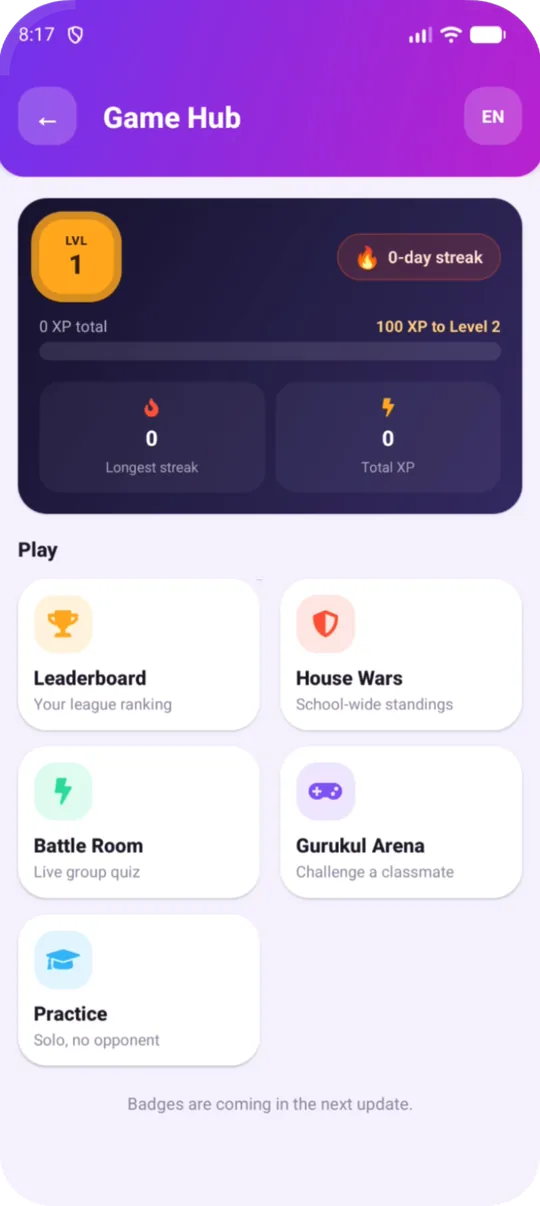
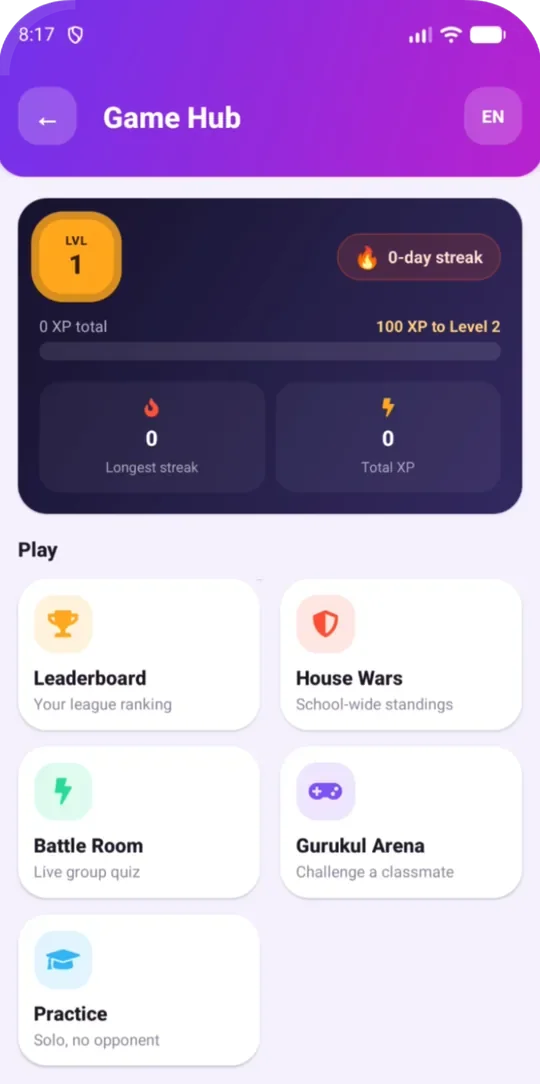
Website assets: H1 kicker, feature grid tiles, first-touch attribution, cropped screenshots
- site.css: .h1-kicker (Mukta on Hindi pages), .related > div tiles for the feature grid (link tiles
  get an arrow), .foot-title for the footer headings, .pillar-links, list support in .answer,
  .roadmap removed. 981-1199px: tighter nav spacing and the English Games link hidden, so seven
  links, the language switch and the demo button fit on one line at 1024px (Games stays in the
  footer, the mobile menu and at 1200px+; Hindi labels are narrower and keep it).
- site.js: first page of the visit, referrer host (not smartgurukul.org) and utm_source/medium/
  campaign kept in sessionStorage (try/catch everywhere) and sent only inside the existing
  sourcePage field of a demo or website request, capped at 200 characters. No analytics script.
- principal-home.webp cropped to 540x1036 (drops the Video Calls tile) and game-hub.webp to
  540x1084 (drops "Badges are coming in the next update"), WebP q85, Pillow.
- favicon.ico (16/32/48) from brand/favicon-48.png; IndexNow key file.

diff --git a/docs/assets/site.css b/docs/assets/site.css
@@ -66,13 +66,21 @@ p { margin: 0 0 1em; }
 .brand { display: flex; align-items: center; text-decoration: none; flex: none; }
 .brand img { height: 40px; width: auto; }
 .nav-links { display: flex; gap: 2px; margin: 0 0 0 auto; padding: 0; list-style: none; align-items: center; }
-.nav-links a { color: var(--sg-ink-600); text-decoration: none; font: 500 .95rem/1 var(--sg-font-display); padding: 10px 12px; border-radius: 10px; }
+.nav-links a { color: var(--sg-ink-600); text-decoration: none; font: 500 .95rem/1 var(--sg-font-display); padding: 10px 12px; border-radius: 10px; white-space: nowrap; }
 .nav-links a:hover, .nav-links a[aria-current="page"] { color: var(--sg-violet-600); background: var(--sg-violet-50); }
 .nav-cta { display: flex; gap: 10px; align-items: center; }
 .lang { color: var(--sg-ink-900); font: 600 .92rem/1 var(--sg-font-body); text-decoration: none; padding: 10px 12px; border: 1px solid var(--sg-line); border-radius: 10px; }
 .lang:hover { border-color: var(--sg-violet-600); color: var(--sg-violet-600); }
 .menu-btn { display: none; margin-left: auto; background: none; border: 1px solid var(--sg-line); color: var(--sg-ink-900); border-radius: 10px; width: 44px; height: 44px; cursor: pointer; }
 .menu-btn svg { margin: auto; }
+/* 981-1199px: seven links, the language switch and the demo button only fit with tighter spacing and
+   without the Games link (it stays in the footer, the mobile menu and wider screens). */
+@media (min-width: 981px) and (max-width: 1199px) {
+  .nav { gap: 14px; }
+  .nav-links a { padding: 10px 8px; font-size: .9rem; }
+  .nav-links .nav-wide { display: none; }
+  :lang(hi) .nav-links .nav-wide { display: list-item; } /* Hindi labels and lockup are narrower: room to spare */
+}
 @media (max-width: 980px) {
   .menu-btn { display: grid; }
   .nav-links, .nav-cta { display: none; }
@@ -90,6 +98,8 @@ p { margin: 0 0 1em; }
 .hero-grid { display: grid; grid-template-columns: 1.05fr .95fr; gap: 40px; align-items: center; }
 .hero h1 { color: #fff; }
 .hero h1 .accent { color: var(--sg-marigold-500); }
+.h1-kicker { display: block; font: 600 clamp(1rem, 1.6vw, 1.1rem)/1.35 var(--sg-font-display); letter-spacing: 0; color: var(--sg-marigold-500); margin-bottom: 14px; }
+:lang(hi) .h1-kicker { font-family: "Mukta", "Poppins", sans-serif; font-size: clamp(1.05rem, 1.7vw, 1.15rem); }
 .hero .tagline-hi { font: 700 1.35rem/1.3 "Mukta", sans-serif; color: rgba(255, 255, 255, .9); margin: -6px 0 16px; }
 .hero .lead { margin-bottom: 28px; }
 .hero-actions { display: flex; gap: 12px; flex-wrap: wrap; }
@@ -139,6 +149,9 @@ section { padding: clamp(64px, 9vw, 108px) 0; }
 .answer { background: #fff; border: 1px solid var(--sg-line); border-left: 5px solid var(--sg-violet-600); border-radius: var(--sg-radius-card); padding: 22px 24px; box-shadow: var(--shadow); max-width: 880px; margin-inline: auto; }
 .answer p { margin: 0; font-size: 1.1rem; color: var(--sg-ink-600); }
 .answer strong { color: var(--sg-ink-900); }
+.answer ul { margin: 10px 0; padding-left: 1.2em; color: var(--sg-ink-600); font-size: 1.1rem; }
+.answer li { margin-bottom: 4px; }
+.answer ul + p, .answer p + p { margin-top: 10px; }
 
 /* Pillars */
 .pillars { display: grid; grid-template-columns: repeat(3, 1fr); gap: 20px; }
@@ -151,6 +164,7 @@ section { padding: clamp(64px, 9vw, 108px) 0; }
 .pillar li:first-child { border-top: 0; }
 .pillar li::before { content: ""; position: absolute; left: 4px; top: 16px; width: 10px; height: 10px; border-radius: 3px; background: var(--c); transform: rotate(45deg); }
 .pillar a { font: 600 1rem var(--sg-font-display); text-decoration: none; }
+.pillar-links { display: flex; flex-wrap: wrap; gap: 6px 18px; }
 .pillar.ai { --c: var(--sg-violet-600); --c-soft: var(--sg-violet-100); --c-text: var(--sg-violet-700); }
 .pillar.school { --c: var(--sg-violet-900); --c-soft: var(--sg-violet-50); --c-text: var(--sg-violet-900); }
 .pillar.games { --c: var(--sg-marigold-500); --c-soft: var(--sg-marigold-100); --c-text: var(--sg-marigold-700); }
@@ -207,10 +221,6 @@ table.compare { width: 100%; border-collapse: collapse; min-width: 620px; }
 .steps p { color: var(--sg-ink-600); font-size: 1rem; margin: 0; }
 @media (max-width: 960px) { .steps { grid-template-columns: 1fr 1fr; } }
 @media (max-width: 520px) { .steps { grid-template-columns: 1fr; } }
-
-/* Roadmap */
-.roadmap { display: flex; flex-wrap: wrap; gap: 10px; justify-content: center; }
-.roadmap span { background: #fff; border: 1px dashed #CFC3E8; border-radius: 999px; padding: 9px 16px; font: 500 .92rem var(--sg-font-display); color: var(--sg-ink-600); }
 
 /* FAQ */
 .faq { max-width: 860px; margin-inline: auto; display: grid; gap: 12px; }
@@ -269,6 +279,7 @@ table.compare { width: 100%; border-collapse: collapse; min-width: 620px; }
 .prose h3 { margin-top: 1.4em; }
 .prose p, .prose li { color: var(--sg-ink-600); }
 .prose ul { padding-left: 1.2em; }
+.prose .checks { padding-left: 0; }
 .prose li { margin-bottom: .45em; }
 .violet .prose p, .violet .prose li { color: rgba(255, 255, 255, .86); }
 .cards { display: grid; grid-template-columns: repeat(auto-fit, minmax(240px, 1fr)); gap: 16px; }
@@ -278,15 +289,18 @@ table.compare { width: 100%; border-collapse: collapse; min-width: 620px; }
 .violet .card { background: rgba(255, 255, 255, .1); border-color: rgba(255, 255, 255, .18); }
 .violet .card p { color: rgba(255, 255, 255, .86); }
 .related { display: grid; grid-template-columns: repeat(auto-fit, minmax(220px, 1fr)); gap: 14px; }
-.related a { display: block; background: #fff; border: 1px solid var(--sg-line); border-radius: var(--sg-radius-card); padding: 18px 20px; text-decoration: none; color: var(--sg-ink-900); font: 600 1rem var(--sg-font-display); }
-.related a span { display: block; font: 400 .95rem var(--sg-font-body); color: var(--sg-ink-600); margin-top: 4px; }
+.related a, .related > div { display: block; background: #fff; border: 1px solid var(--sg-line); border-radius: var(--sg-radius-card); padding: 18px 20px; text-decoration: none; color: var(--sg-ink-900); font: 600 1rem var(--sg-font-display); }
+.related a span, .related > div span { display: block; font: 400 .95rem var(--sg-font-body); color: var(--sg-ink-600); margin-top: 4px; }
 .related a:hover { border-color: var(--sg-violet-600); }
+.related a { position: relative; padding-right: 40px; }
+.related a::after { content: "→"; position: absolute; right: 18px; top: 17px; color: var(--sg-violet-600); }
+:lang(hi) .related a, :lang(hi) .related > div { font-family: "Mukta", "Poppins", sans-serif; font-weight: 700; font-size: 1.05rem; }
 
 /* Footer */
 .site-footer { background: var(--sg-violet-900); color: rgba(255, 255, 255, .78); padding: 64px 0 32px; font-size: .98rem; }
 .site-footer .brand img { height: 38px; }
 .foot-grid { display: grid; grid-template-columns: 1.4fr 1fr 1fr 1fr; gap: 32px; }
-.site-footer h4 { color: #fff; font-size: .95rem; font-weight: 600; margin-bottom: 14px; }
+.site-footer .foot-title { color: #fff; font: 600 .95rem/1.15 var(--sg-font-display); letter-spacing: -0.01em; margin: 0 0 14px; }
 .site-footer ul { list-style: none; padding: 0; margin: 0; display: grid; gap: 9px; }
 .site-footer a { color: rgba(255, 255, 255, .8); text-decoration: none; }
 .site-footer a:hover { color: #fff; }

diff --git a/docs/assets/site.js b/docs/assets/site.js
@@ -1,4 +1,5 @@
-// Smart Gurukul marketing site: mobile nav + demo / website-services request form. No dependencies.
+// Smart Gurukul marketing site: mobile nav, first-touch attribution, demo / website-services request
+// form. No dependencies, no analytics or third-party scripts.
 (function () {
   var header = document.querySelector('.site-header');
   var menuBtn = document.querySelector('.menu-btn');
@@ -11,6 +12,39 @@
 
   var year = document.getElementById('year');
   if (year) year.textContent = String(new Date().getFullYear());
+
+  // First touch of this visit (sessionStorage, so it ends with the tab): the page the visitor landed on,
+  // the site that sent them (host name only) and any campaign tag. It is sent only with a demo or
+  // website request, inside the existing sourcePage field (see privacy.html).
+  var FIRST_KEY = 'sg_first';
+  var first = null;
+  try { first = JSON.parse(sessionStorage.getItem(FIRST_KEY) || 'null'); } catch (e) { first = null; }
+  if (!first || typeof first !== 'object') {
+    first = { land: location.pathname };
+    try {
+      var refHost = document.referrer ? new URL(document.referrer).hostname : '';
+      if (refHost && !/(^|\.)smartgurukul\.org$/i.test(refHost)) first.ref = refHost;
+    } catch (e) { /* no or unreadable referrer */ }
+    try {
+      var params = new URLSearchParams(location.search);
+      ['utm_source', 'utm_medium', 'utm_campaign'].forEach(function (k) {
+        var v = (params.get(k) || '').replace(/\s+/g, ' ').trim().slice(0, 60);
+        if (v) first[k] = v;
+      });
+    } catch (e) { /* old browser */ }
+    try { sessionStorage.setItem(FIRST_KEY, JSON.stringify(first)); } catch (e) { /* storage blocked */ }
+  }
+
+  /** "<this page> | land=<first page> | ref=<referrer host> | utm=<source>/<medium>/<campaign>", empty parts
+   *  left out, cut to the backend's 200-character limit on sourcePage. */
+  function sourcePage() {
+    var parts = [location.pathname];
+    if (first.land) parts.push('land=' + first.land);
+    if (first.ref) parts.push('ref=' + first.ref);
+    var utm = [first.utm_source || '', first.utm_medium || '', first.utm_campaign || ''].join('/').replace(/\/+$/, '');
+    if (utm) parts.push('utm=' + utm);
+    return parts.join(' | ').slice(0, 200);
+  }
 
   var form = document.getElementById('demo-form');
   if (!form) return;
@@ -92,7 +126,7 @@
       services: picked.length ? picked : null,
       budget: val('budget'),
       message: val('message'),
-      sourcePage: location.pathname,
+      sourcePage: sourcePage(),
       website: f.website.value
     };
     submit.disabled = true;
